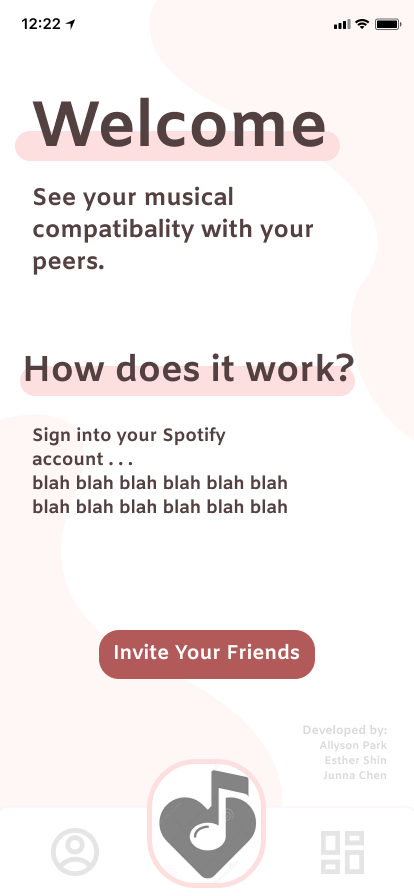
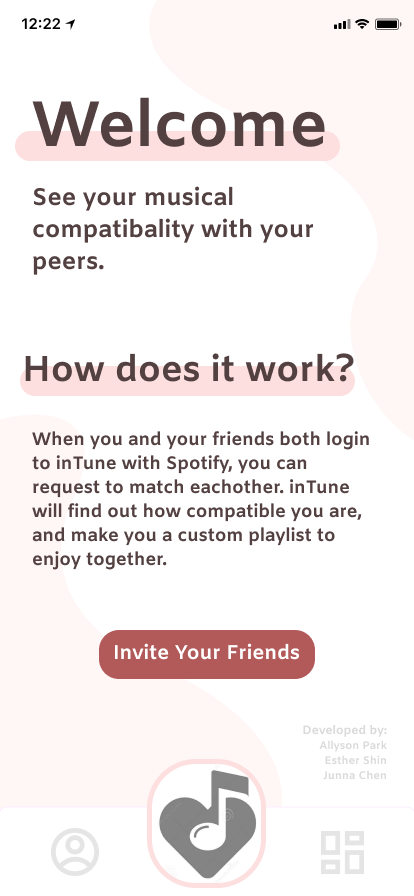
updated the intune images and added whitespace before images

Changed region(s): [[0.058, 0.4688, 0.8986, 0.6562]]

diff --git a/experience.md b/experience.md
@@ -1,12 +1,13 @@
-[Home](index.html)|[About](about.html) | [Contact](contact.html) | [Experience](experience.html)
+[Home](index.html) | [About](about.html) | [Contact](contact.html) | [Experience](experience.html)
 
 # Experience
 
 I changed my major from bioengineering to computer science midway through my second year of school, hence the short-ish list of projects available. Since discovering my new passion, however, I've spent plenty of time getting hands on experience in the world of computers. I'm always looking for ways to expand to this list and add new projects!
 
 ## iOS Development Example: inTune
-This project is still in development. InTune is an iOS application that allows 2 Spotify users to log in and get a compatibility score and a joint playlist of songs that they would enjoy listening to together. Below show some images of a few of the main pages of the app.
-![inTune Preview](images/inTune.jpg)
+This project is still in development. InTune is an iOS application that allows two Spotify users to log in and get a compatibility score and a joint playlist of songs that they would enjoy listening to together. Below show some images of a few of the main pages of the app.
+
+![inTune Preview](images/inTuneOverview.png)
 
 ## IBM Summer Research Project: Autofocusing a Digital Holographic Microscope
 Details of this project, including code, are confidential. Basic ideas to power this project include: image/video processing and manipulation, supervised machine learning, building command line applications, and building and working with large datasets.

diff --git a/about.md b/about.md
@@ -1,4 +1,4 @@
-[Home](index.html)|[About](about.html) | [Contact](contact.html) | [Experience](experience.html)
+[Home](index.html) | [About](about.html) | [Contact](contact.html) | [Experience](experience.html)
 
 # Who am I?
 
@@ -10,9 +10,11 @@ Heres a link to my most updated [CV](CV_website.pdf) as of September 2020. Happy
 ## Values
 
 I am a firm believer in community and the responsibility we all have to uplift our fellow participants in society. I am not passionate about tech so much as I am passionate about its ability to make positive social change, regardless of how direct that may be. I want to build products that improve our world and work with teams who value sustainability, ethics, and inclusion.
+
 ![Values image](images/values2.png)
 
 ## Goals and Interests
 
 As a student, the goals I have are limitless, great in numbers, and often undefined. Research has treated me well, and I'm ready to explore more industry oriented areas as well. Overall, however, my goals are less oriented around career milestones or working in specific subdivisions of computer science–rather, I am oriented on the impact that my projects might have. All I want is to work on projects that I find valuable and interesting. I would love to work with a team that is making positive impact on the world.
+
 ![Goals image](images/goals2.jpg)

diff --git a/index.md b/index.md
@@ -1,4 +1,4 @@
-[Home](index.html)|[About](about.html) | [Contact](contact.html) | [Experience](experience.html)
+[Home](index.html) | [About](about.html) | [Contact](contact.html) | [Experience](experience.html)
 
 # Nice to meet you!
 ### I'm Allyson Park, a computer science student at UC Berkeley who's always ready to learn.

diff --git a/contact.md b/contact.md
@@ -1,4 +1,4 @@
-[Home](index.html)|[About](about.html) | [Contact](contact.html) | [Experience](experience.html)
+[Home](index.html) | [About](about.html) | [Contact](contact.html) | [Experience](experience.html)
 
 # Let's get in touch!
 
